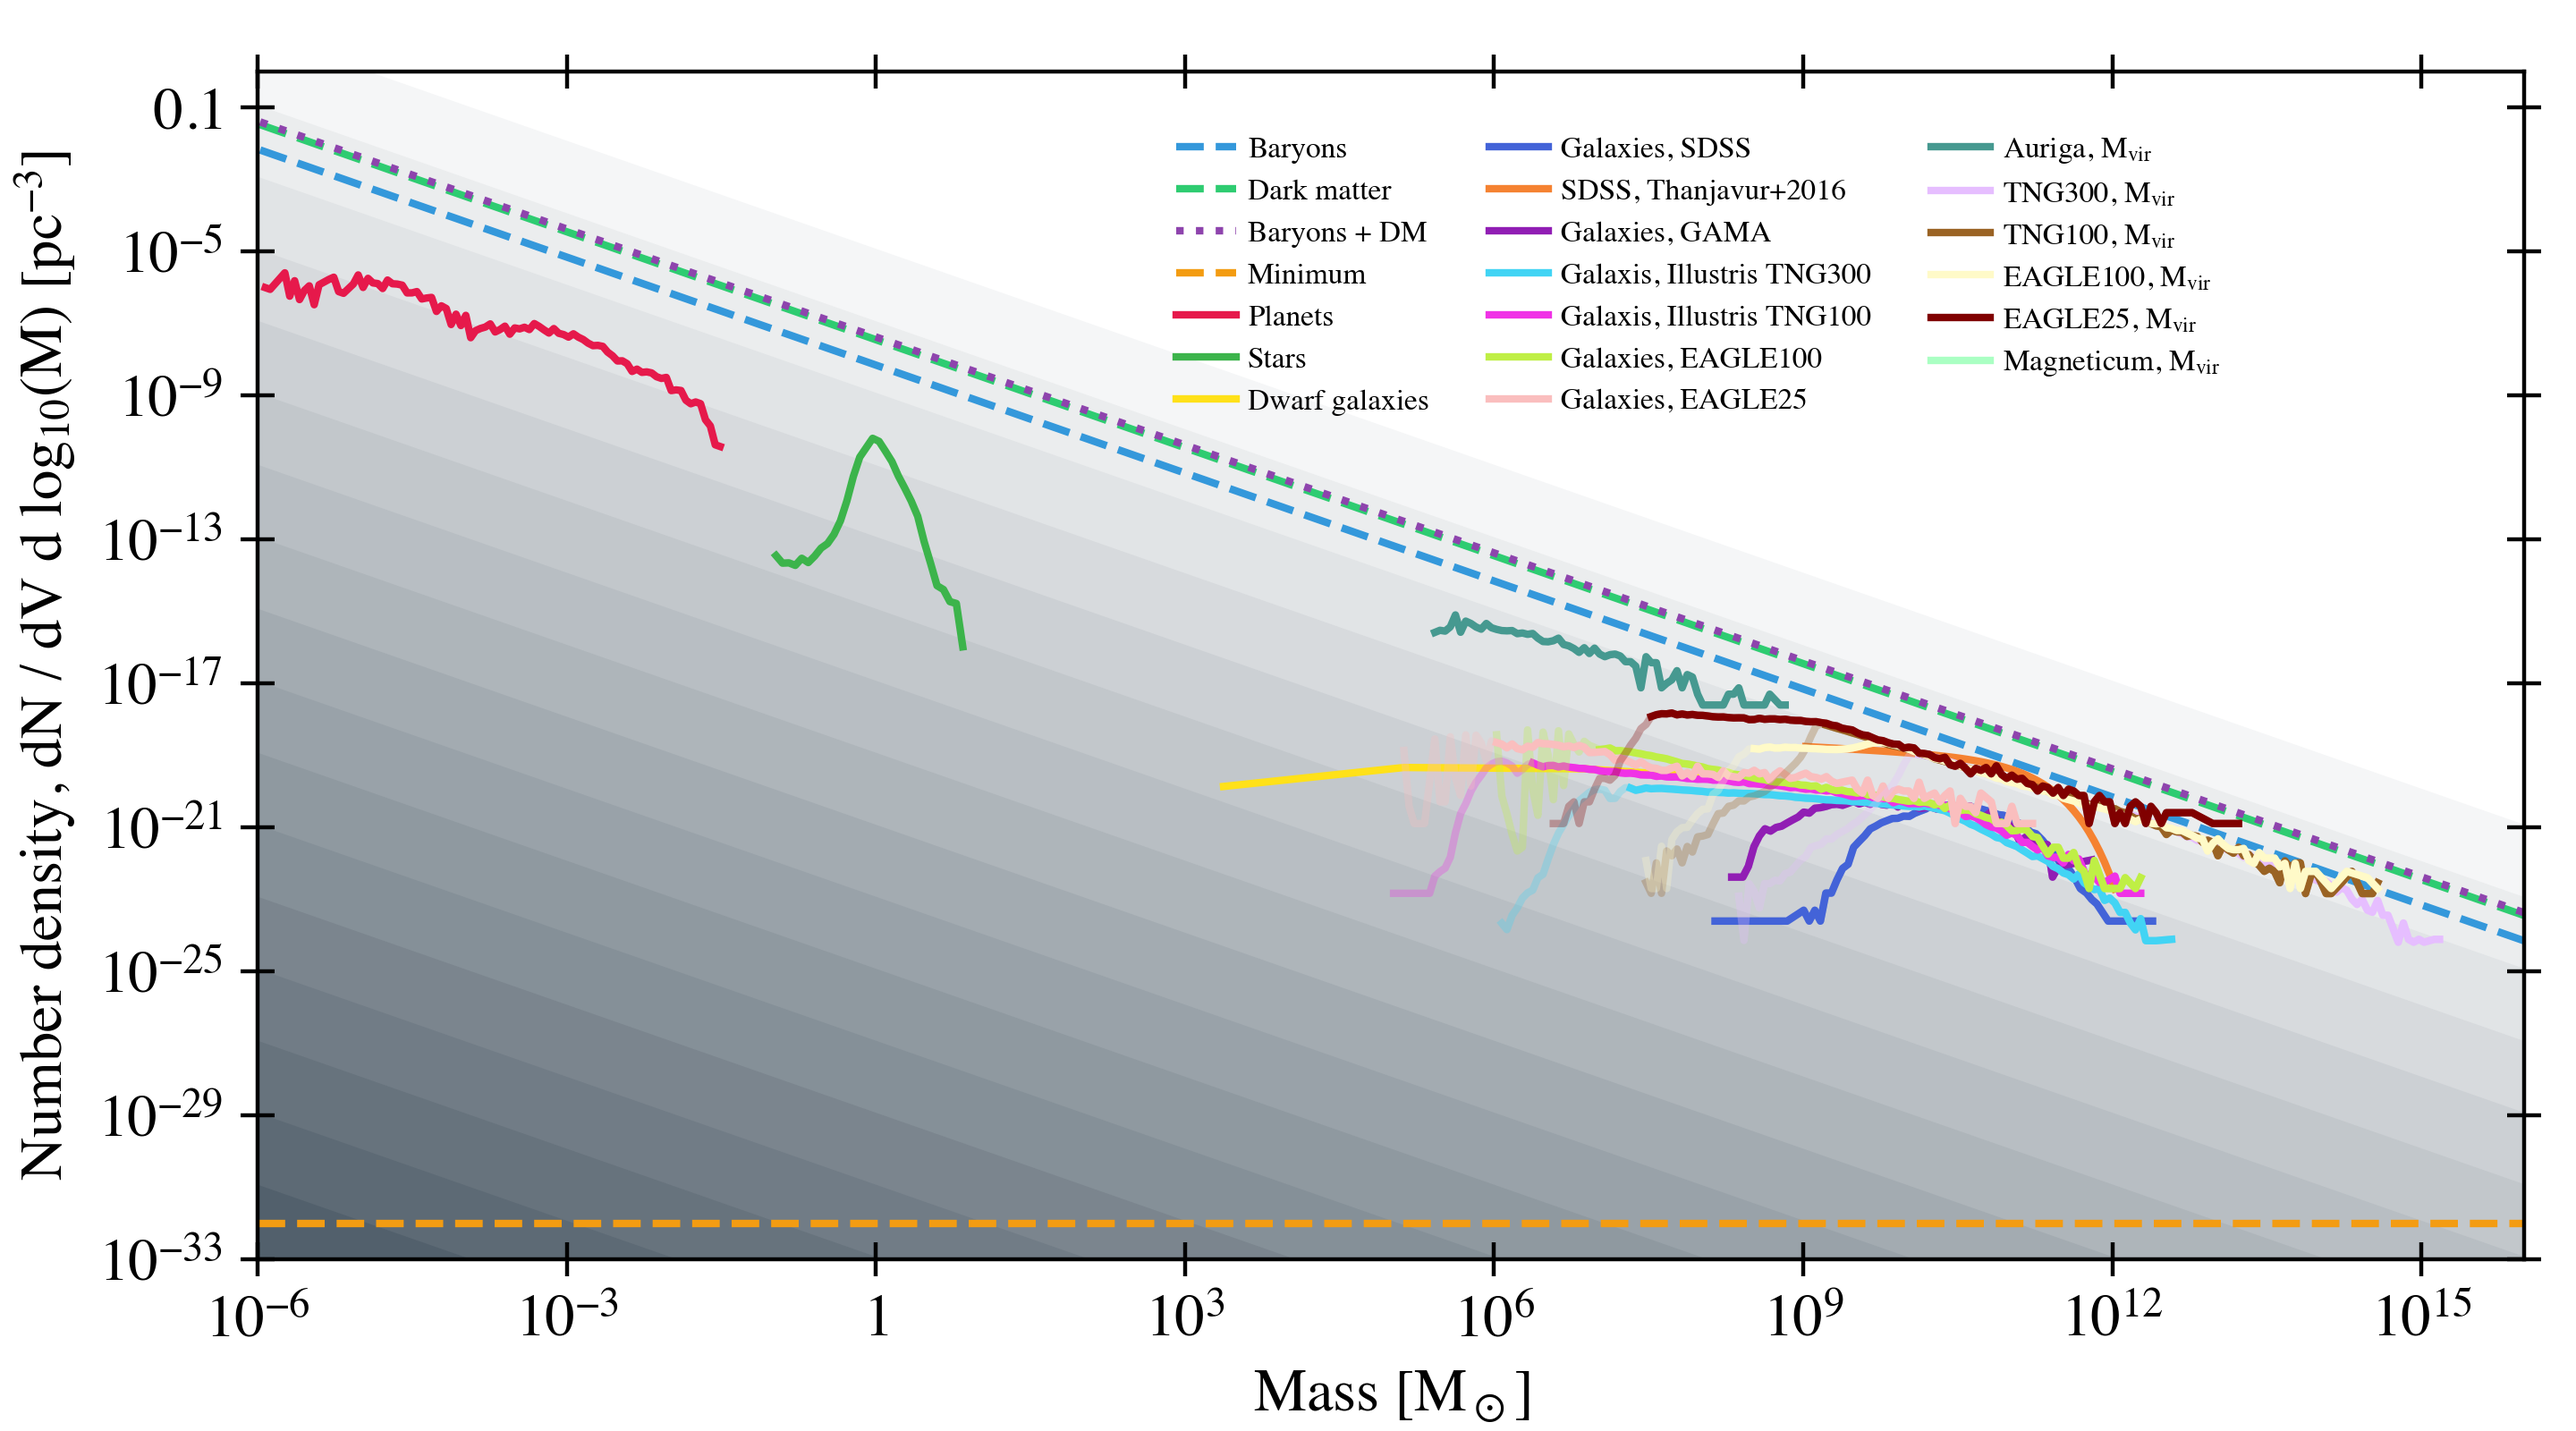
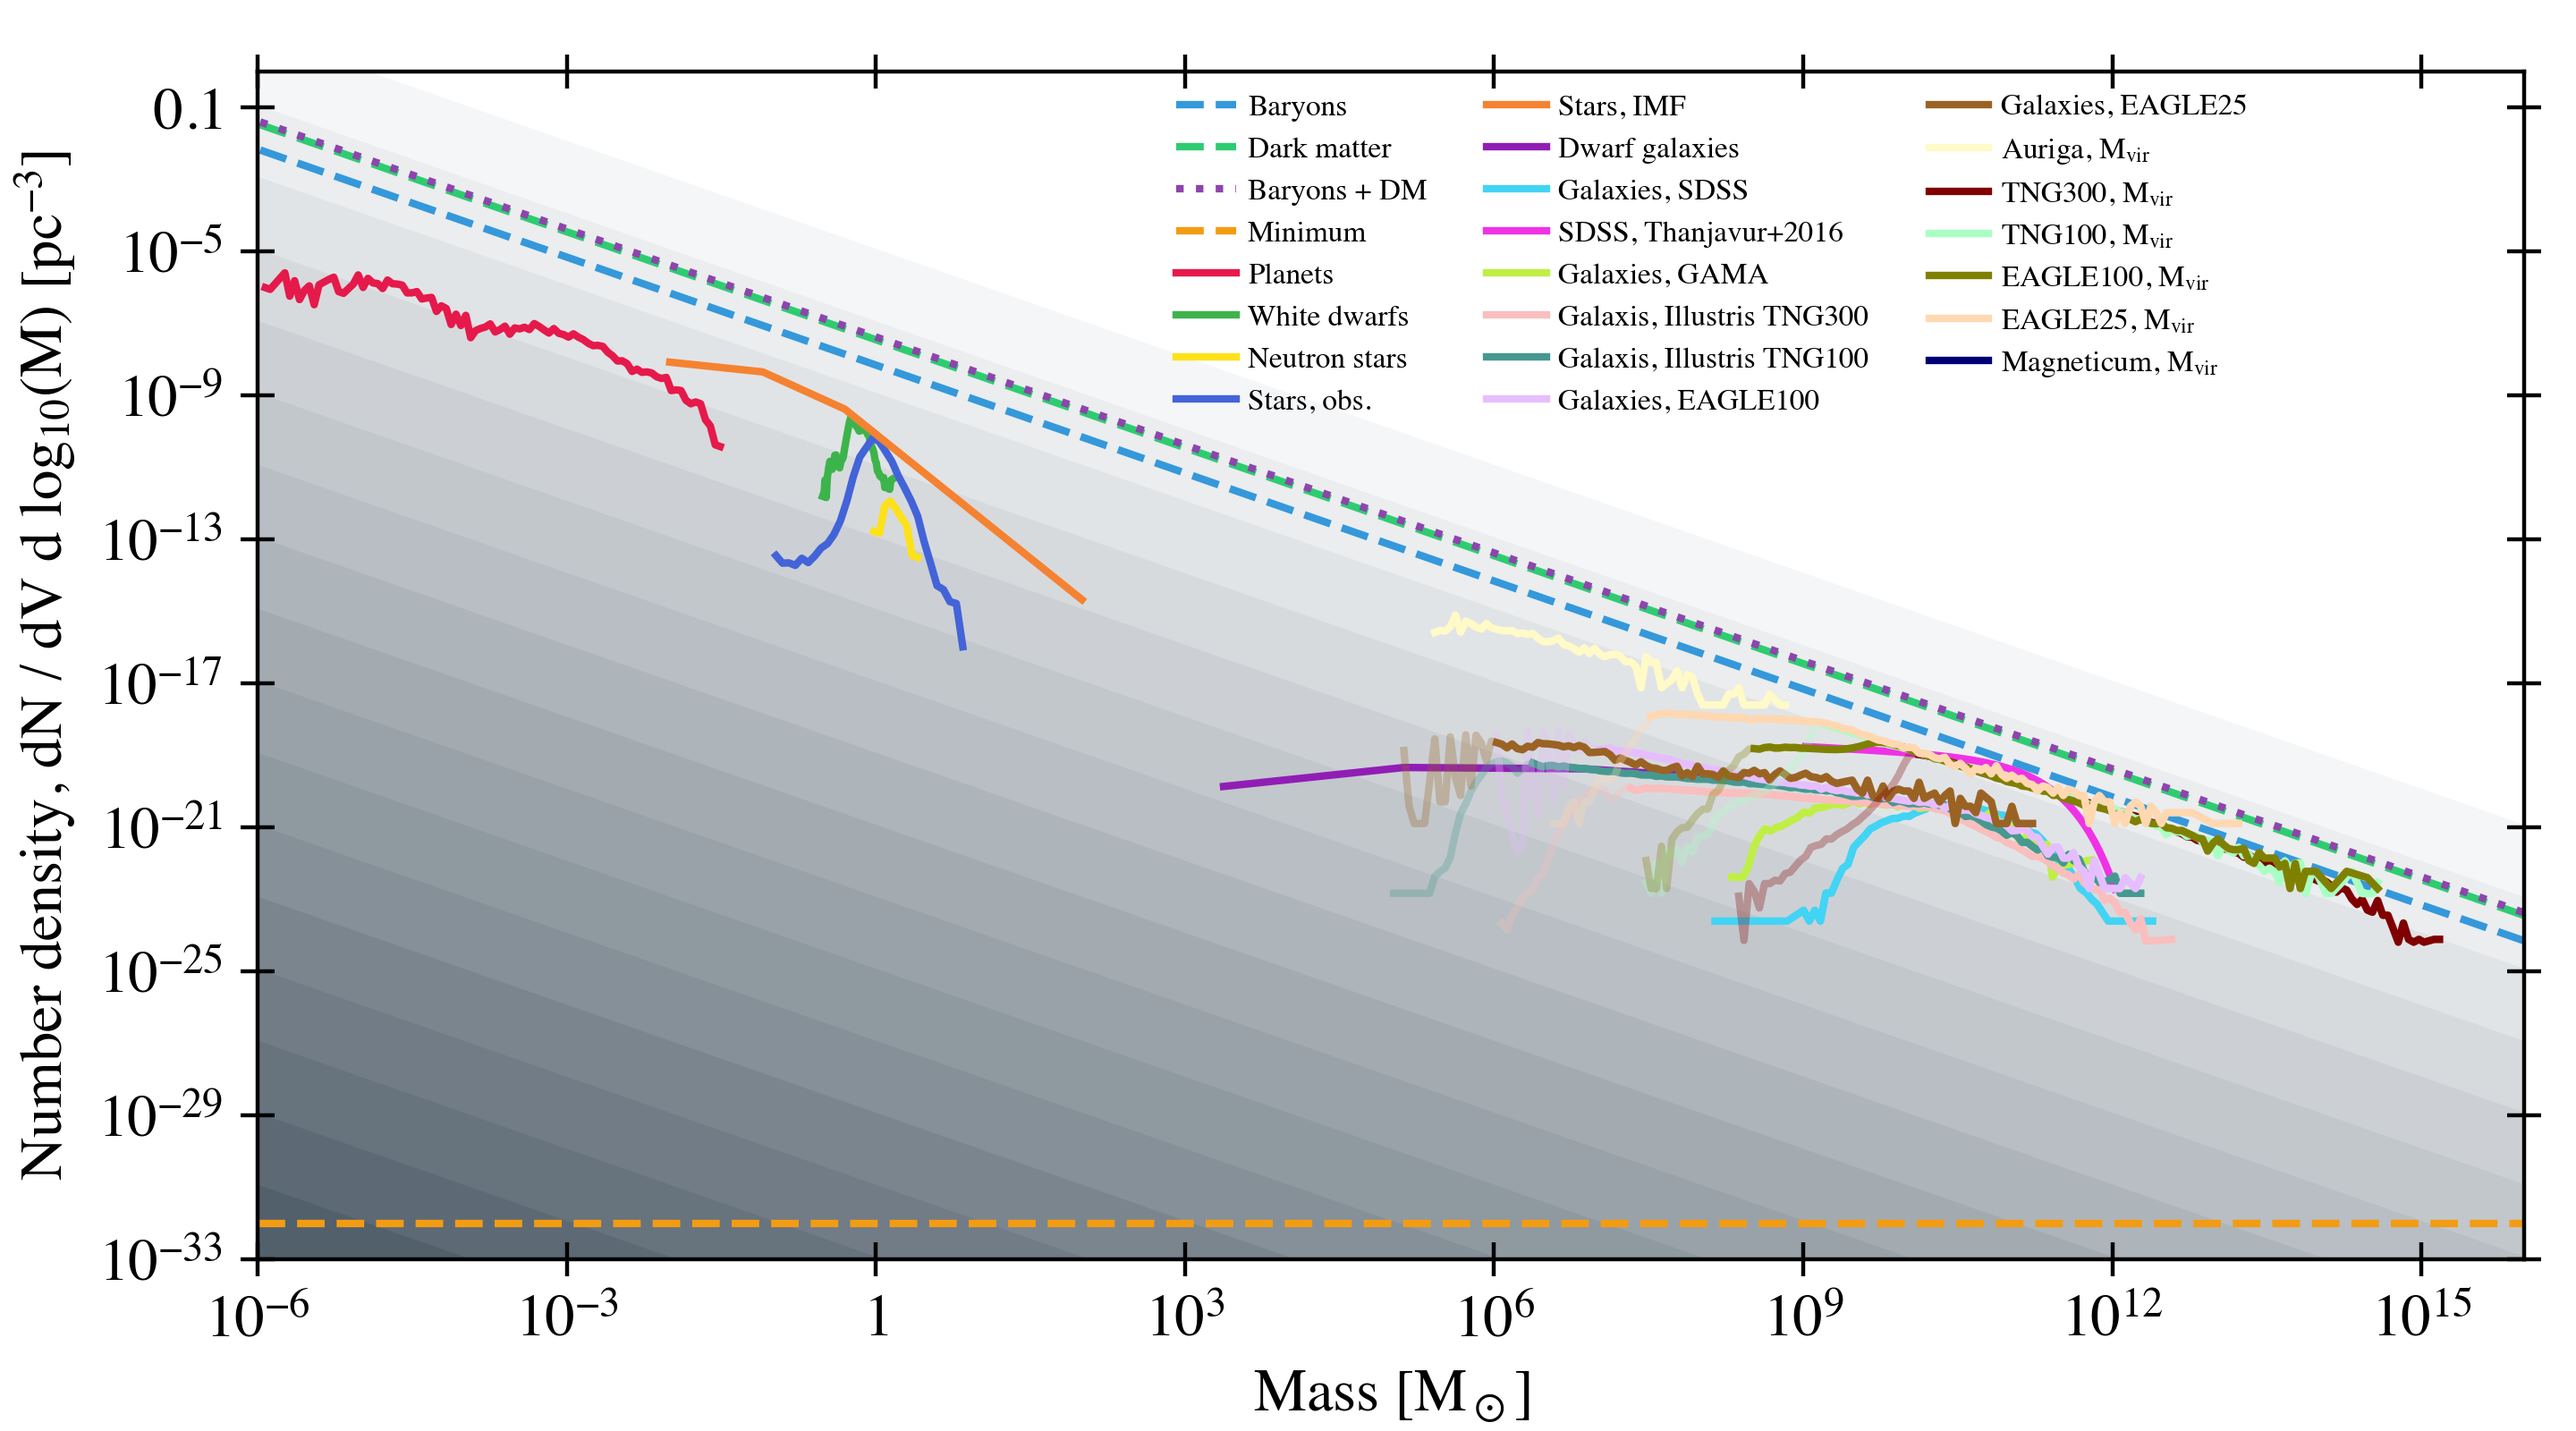
update histogram_plots

diff --git a/figures/histogram_plots.py b/figures/histogram_plots.py
@@ -10,8 +10,8 @@ from plot_funcs import *
 #fig_savename = pwd + '/dn_dv.png'
 fig_savename = pwd + '/dn_dv_dlogm.png'
 
-# 'WD_Number_Density.csv', 'NS_Number_Density.csv', \
-fns = ['planets_obs.txt', 'MADE_dNdVdlogM_M.csv', 'imf_dNdVdlogM_M.csv', \
+fns = ['planets_obs.txt', 'WD_Number_Density.csv', 'NS_Number_Density.csv', \
+       'MADE_dNdVdlogM_M.csv', 'imf_dNdVdlogM_M.csv', \
        'galaxies_obs_dwarfGal.txt', 'galaxies_obs_SDSS.txt', 'sdss_thanjavur2016.txt', 'galaxies_obs_GAMA.txt', \
        'illustris/BigPlotData_TNG300_mstar.txt', 'illustris/BigPlotData_TNG100_mstar.txt', \
        'eagle/BigPlotData_EAGLE_mstar.txt', 'eagle/BigPlotData_EAGLE25_mstar.txt', \
@@ -22,12 +22,12 @@ fns = ['planets_obs.txt', 'MADE_dNdVdlogM_M.csv', 'imf_dNdVdlogM_M.csv', \
 
 fns = [pwd + '/../data/' + x for x in fns]
 
-cuts = [0, 0, 0, 0, 1e7, 0, 1e7, 2e7, 2.3e6, 1e7, 1e6, 0, 1.2e10, 1.5e9, 3e8, 3e7, 0] # completeness cuts in x-range
+cuts = [0, 0, 0, 0, 0, 0, 1e7, 0, 1e7, 2e7, 2.3e6, 1e7, 1e6, 0, 1.2e10, 1.5e9, 3e8, 3e7, 0] # completeness cuts in x-range
 
-pwrs = [False, True, True, True, True, True, True, True, True, True, True, True, True, True, True, True, True] # if the mass is given as 'pwr' in 10**pwr
+pwrs = [False, False, False, True, True, True, True, True, True, True, True, True, True, True, True, True, True, True, True] # if the mass is given as 'pwr' in 10**pwr
 
-#'White dwarfs', 'Neutron stars',
-labs = ['Planets', 'Stars, obs.', 'Stars, IMF', 'Dwarf galaxies', 'Galaxies, SDSS', 'SDSS, Thanjavur+2016', \
+labs = ['Planets', 'White dwarfs', 'Neutron stars', 'Stars, obs.', 'Stars, IMF', \
+        'Dwarf galaxies', 'Galaxies, SDSS', 'SDSS, Thanjavur+2016', \
         'Galaxies, GAMA', 'Galaxis, Illustris TNG300', 'Galaxis, Illustris TNG100', \
         'Galaxies, EAGLE100', 'Galaxies, EAGLE25', 'Auriga, M$_{vir}$', \
         'TNG300, M$_{vir}$', 'TNG100, M$_{vir}$', \
@@ -72,7 +72,9 @@ ax1.axhline(nmin, ls='--', c='#F39C12', label='Minimum')
 
 
 ## observations and simulations
-plot_all(ax1, fns, cuts, cs, lss, labs, pwrs)
+for i in range(len(fns)):
+    print('plotting', fns[i])
+    plot_hist(ax1, fns, cuts, cs, lss, labs, pwrs)
 
 
 handles, labels = ax1.get_legend_handles_labels()

diff --git a/figures/plot_funcs.py b/figures/plot_funcs.py
@@ -23,27 +23,22 @@ def makeCmap(hexColour, name, zeroColour='#FFFFFF'):
     cmap = mpl.colors.LinearSegmentedColormap(name, cdict)
     return cmap
 
-def plot_all(ax, fns, cuts, cs, lss, labs, pwrs):
-    for i in range(len(fns)):
-        print('plotting', fns[i])
-        bc, dndv, dndvdlm = load_data(fns[i])
-        if pwrs[i]:
-            bc = 10**bc
-        #plot_phys(ax, bc, dndv, cuts[i], cs[i], lss[i], labs[i])
-        plot_phys(ax, bc, dndvdlm, cuts[i], cs[i], lss[i], labs[i])
 
 def load_data(fn):
     try:
         bin_center, bin_width, dn_dv, dn_dv_dlogm = np.genfromtxt(fn).T
     except ValueError as e:
-        bin_center, dn_dv, dn_dv_dlogm = np.genfromtxt(fn).T
-    idxs = np.nonzero(dn_dv)
-    # TODO: use this: idxs = np.nonzero(dn_dv_dlogm)
+        try:
+            bin_center, dn_dv, dn_dv_dlogm = np.genfromtxt(fn).T
+        except ValueError as e2:
+            bin_center, dn_dv_dlogm = np.genfromtxt(fn).T
+    idxs = np.nonzero(dn_dv_dlogm)
     bin_center = bin_center[idxs]
-    dn_dv = dn_dv[idxs]
     dn_dv_dlogm = dn_dv_dlogm[idxs]
-    return bin_center, dn_dv, dn_dv_dlogm
+    return bin_center, dn_dv_dlogm
 
-def plot_phys(ax, m, nd, cut, c, ls, label):
-    if cut > 0: ax.plot(m, nd, c=c, ls=ls, alpha=0.3)
-    ax.plot(m[m > cut], nd[m > cut], c=c, ls=ls, label=label)
+def plot_hist(ax, fn, cut, c, ls, label, pwr=True):
+    x, y = load_data(fn)
+    if pwr: y = 10**y
+    if cut > 0: ax.plot(x, y, c=c, ls=ls, alpha=0.3)
+    ax.plot(x[x > cut], y[x > cut], c=c, ls=ls, label=label)
